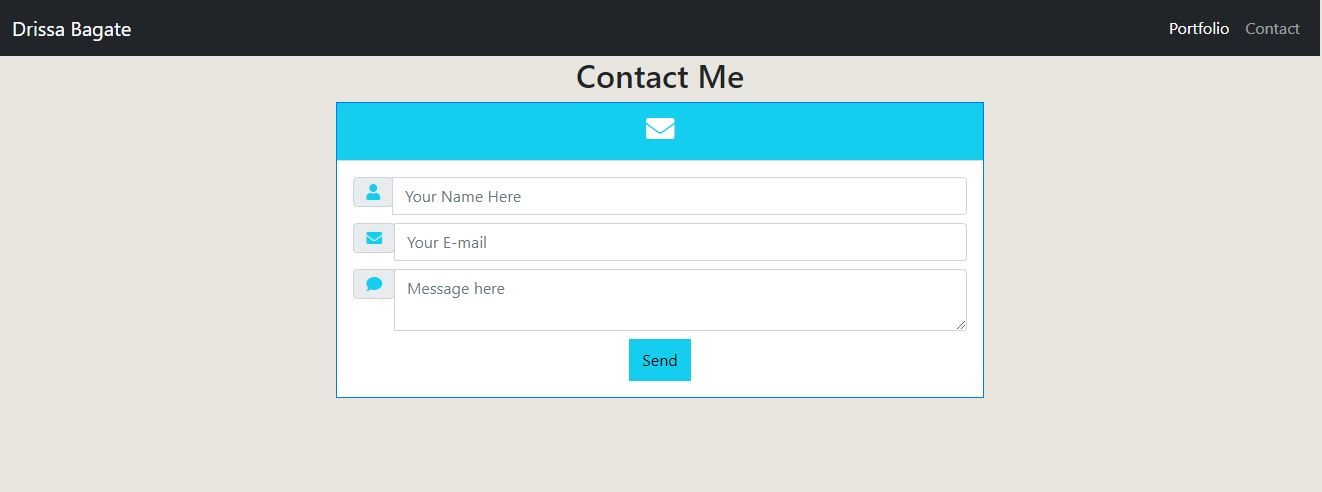
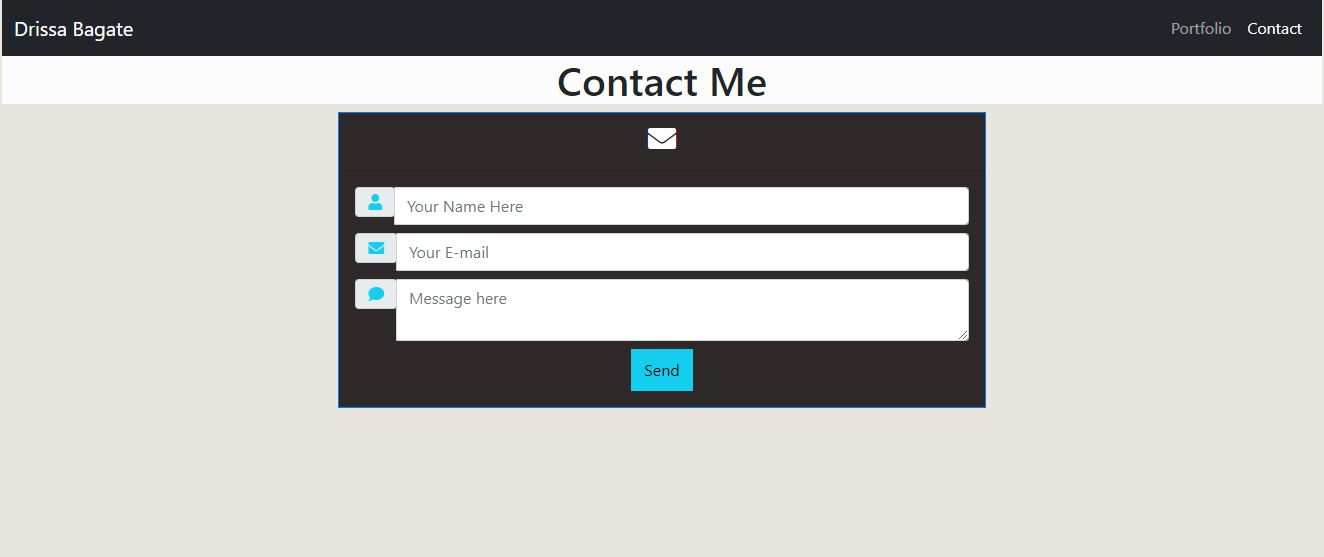
fixed html and replaced contactpage image

Changed region(s): [[0.0, 0.0305, 1.0, 0.8232]]

diff --git a/CSS/style.css b/CSS/style.css
@@ -50,3 +50,9 @@ header{
 h1{
   background: rgb(251, 252, 252);
 }
+
+.footer {
+  margin-left: 50px;
+  margin-right: 100 px;
+  padding: 0 20px;
+}
